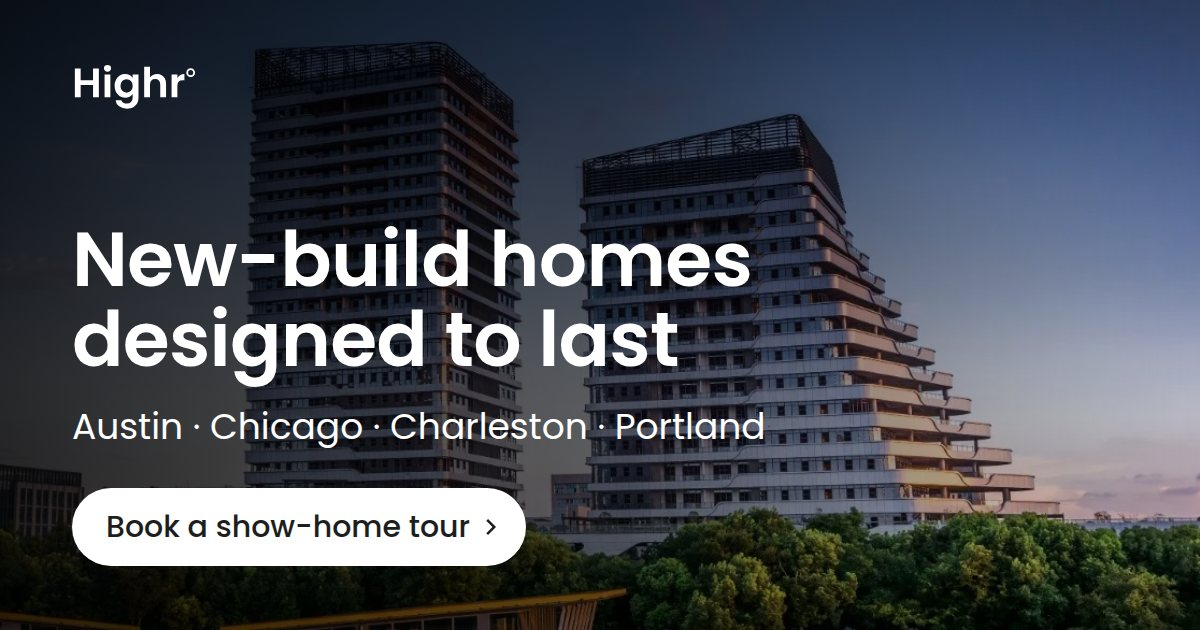
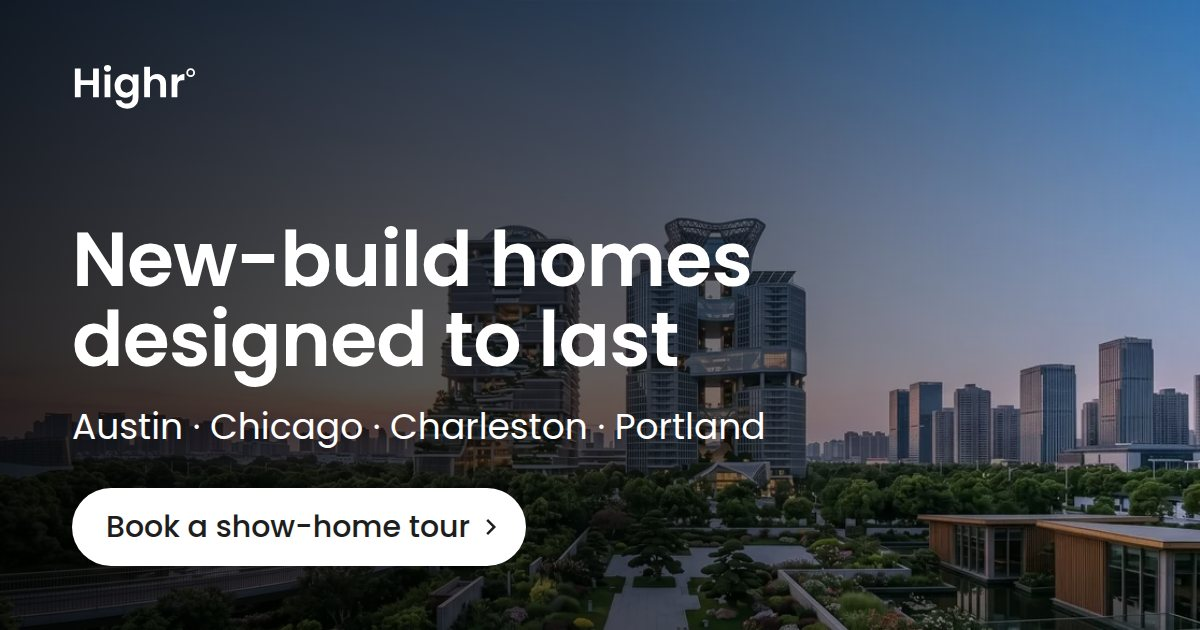
perf: update hero background photo and regenerate og-image share card

diff --git a/index.html b/index.html
@@ -193,7 +193,7 @@
     </section>
 
     <div class="hero-media" aria-hidden="false">
-      <img src="assets/images/hero-background.webp" alt="Two modern glass residential towers rising above green treetops at dusk" width="1500" height="586" fetchpriority="high" class="hero-media__img" data-parallax="0.12">
+      <img src="assets/images/hero-background.webp" alt="Modern architectural residential towers with lush landscaped gardens and curved skywalk at dusk" width="1500" height="586" fetchpriority="high" class="hero-media__img" data-parallax="0.12">
     </div>
 
     <!-- Trust bar -->
